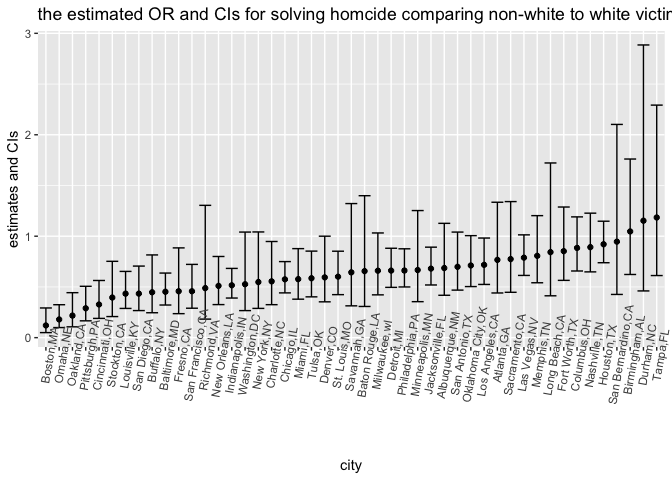
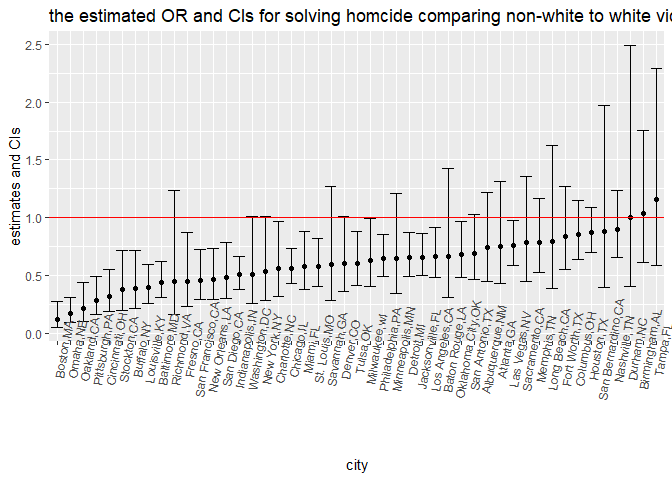
modify the comment of problem1

diff --git a/p8105_hw6.md b/p8105_hw6.md
@@ -9,54 +9,56 @@ Problem 1
 ``` r
 library(tidyverse)
 set.seed(1)
-homcide = read.csv( file = "./data/homicide-data.csv")
+homcide = read_csv( file = "./data/homicide-data.csv")
 ```
-
-Create a city\_state variable (e.g. “Baltimore, MD”), and a binary variable indicating whether the homicide is solved. Omit cities Dallas, TX; Phoenix, AZ; and Kansas City, MO – these don’t report victim race. Also omit Tulsa, AL – this is a data entry mistake. Modifiy victim\_race to have categories white and non-white, with white as the reference category. Be sure that victim\_age is numeric.
 
 ### data cleaning
 
+A code chunk below is used to clean the data: 1)Create a city\_state variable (e.g. “Baltimore, MD”) and a binary variable indicating whether the homicide is solved. 2)Omit cities Dallas, TX; Phoenix, AZ; and Kansas City, MO – these don’t report victim race. omit Tulsa, AL – this is a data entry mistake. 3)Modifiy victim\_race to have categories white and non-white, with white as the reference category. Make sure that victim\_age is numeric.
+
 ``` r
-homcide= homcide%>%
-  janitor::clean_names()%>%
-  mutate(city_state = str_c(city, ",", state))%>%
-  subset(!city_state %in% c("Dallas,TX","Phoenix,AZ","Kansas City,MO","Tulsa,AL"))%>%
-  mutate(victim_race = ifelse(victim_race != "White", "non-white", "white"))%>%
+homcide = homcide %>%
+  janitor::clean_names() %>%
+  mutate(city_state = str_c(city, ",", state)) %>%
+  subset(!city_state %in% c("Dallas,TX","Phoenix,AZ","Kansas City,MO","Tulsa,AL")) %>%
+  mutate(victim_race = ifelse(victim_race != "White", "non-white", "white")) %>%
   mutate(victim_age = as.numeric(victim_age), victim_race = fct_relevel(victim_race, "white"))
 ```
 
-For the city of Baltimore, MD, use the glm function to fit a logistic regression with resolved vs unresolved as the outcome and victim age, sex and race (as just defined) as predictors. Save the output of glm as an R object; apply the broom::tidy to this object; and obtain the estimate and confidence interval of the adjusted odds ratio for solving homicides comparing non-white victims to white victims keeping all other variables fixed.
+### Baltimore Division
 
-### Balimore Division
+For the city of Baltimore, MD, a code chunk is used to utilize the glm function to fit a logistic regression with resolved vs unresolved as the outcome and victim age, sex and race (as just defined) as predictors.
 
 ``` r
-Baltimore = filter(homcide, city_state == "Baltimore,MD")%>%
-mutate(resolved = as.numeric(disposition == "Closed by arrest"))%>%
+Baltimore = filter(homcide, city_state == "Baltimore,MD") %>%
+mutate(resolved = as.numeric(disposition == "Closed by arrest")) %>%
 select(resolved, victim_age, victim_race, victim_sex)
 
 fit_logistic = 
-  Baltimore%>% 
-  glm(resolved ~ victim_age + victim_race + victim_sex, data = ., family = binomial())%>%
-  broom::tidy()%>%
-  mutate(OR = exp(estimate), conf.low = exp(estimate - qnorm(0.975)*std.error), conf.high = exp(estimate + qnorm(0.975)*std.error))%>%
-  filter(term == "victim_racenon-white")%>%
+  Baltimore %>% 
+  glm(resolved ~ victim_age + victim_race + victim_sex, data = ., family = binomial()) %>%
+  broom::tidy(conf.int = TRUE) %>%
+  mutate(OR = exp(estimate), conf.low = exp(conf.low), conf.high = exp(conf.high))     %>%
+  filter(term == "victim_racenon-white") %>%
   select(term,OR, conf.low,conf.high)
 
 knitr::kable(fit_logistic)
 ```
 
-| term                  |         OR|   conf.low|  conf.high|
-|:----------------------|----------:|----------:|----------:|
-| victim\_racenon-white |  0.4525206|  0.3216203|  0.6366977|
+| term                  |        OR|   conf.low|  conf.high|
+|:----------------------|---------:|----------:|----------:|
+| victim\_racenon-white |  0.440608|  0.3121625|  0.6196693|
+
+Thus, keeping all other variables fixed, the estimate of the adjusted odds ratio for solving homicides comparing non-white victims to white victims is 0.440608. And we are 95% confident that the estimate fall into (0.3121625, 0.6196693)
 
 ### glm for all the cities in the dataset
 
-Now run glm for each of the cities in your dataset, and extract the adjusted odds ratio (and CI) for solving homicides comparing non-white victims to white victims. Do this within a “tidy” pipeline, making use of purrr::map, list columns, and unnest as necessary to create a dataframe with estimated ORs and CIs for each city.
+Now, a code chunk is used to run glm for each of the cities in the dataset, and extract the adjusted odds ratio (and CI) for solving homicides comparing non-white victims to white victims.
 
 ``` r
 ##exclude more city with unknown victim-race
-homcide1 = homcide%>%
-  filter(victim_race != "unknown")%>%
+homcide1 = homcide %>%
+  filter(victim_race != "unknown") %>%
   mutate(resolved = as.numeric(disposition == "Closed by arrest"))
 
 nest_lm_res =
@@ -64,80 +66,31 @@ nest_lm_res =
   group_by(city_state) %>% 
   nest() %>% 
   mutate(models = map(data, ~glm(resolved ~ victim_age + victim_race + victim_sex, data = .x, family = binomial())),
-         models = map(models, broom::tidy)) %>% 
+  models = map(models, broom::tidy)) %>% 
   select(-data) %>% 
-  unnest()%>%
-  mutate(OR = exp(estimate), conf.low = exp(estimate - qnorm(0.975)*std.error), conf.high = exp(estimate + qnorm(0.975)*std.error))%>%
-  filter(term == "victim_racenon-white")%>%
+  unnest() %>%
+  mutate(OR = exp(estimate), conf.low = exp(estimate - qnorm(0.975)*std.error), conf.high = exp(estimate + qnorm(0.975)*std.error)) %>%
+  filter(term == "victim_racenon-white") %>%
   select(city_state,term,OR, conf.low,conf.high)
-
-knitr::kable(nest_lm_res)
 ```
 
-| city\_state       | term                  |         OR|   conf.low|  conf.high|
-|:------------------|:----------------------|----------:|----------:|----------:|
-| Albuquerque,NM    | victim\_racenon-white |  0.6860531|  0.4176974|  1.1268177|
-| Atlanta,GA        | victim\_racenon-white |  0.7667500|  0.4404305|  1.3348431|
-| Baltimore,MD      | victim\_racenon-white |  0.4525206|  0.3216203|  0.6366977|
-| Baton Rouge,LA    | victim\_racenon-white |  0.6558545|  0.3074103|  1.3992540|
-| Birmingham,AL     | victim\_racenon-white |  1.0471153|  0.6226928|  1.7608210|
-| Boston,MA         | victim\_racenon-white |  0.1205147|  0.0496325|  0.2926265|
-| Buffalo,NY        | victim\_racenon-white |  0.4474175|  0.2455018|  0.8154008|
-| Charlotte,NC      | victim\_racenon-white |  0.5550724|  0.3250654|  0.9478259|
-| Chicago,IL        | victim\_racenon-white |  0.5751690|  0.4412489|  0.7497341|
-| Cincinnati,OH     | victim\_racenon-white |  0.3269424|  0.1896835|  0.5635248|
-| Columbus,OH       | victim\_racenon-white |  0.8844860|  0.6571179|  1.1905254|
-| Denver,CO         | victim\_racenon-white |  0.5942632|  0.3530866|  1.0001761|
-| Detroit,MI        | victim\_racenon-white |  0.6609813|  0.4958081|  0.8811801|
-| Durham,NC         | victim\_racenon-white |  1.1528002|  0.4605931|  2.8852976|
-| Fort Worth,TX     | victim\_racenon-white |  0.8527376|  0.5646722|  1.2877586|
-| Fresno,CA         | victim\_racenon-white |  0.4574375|  0.2364814|  0.8848439|
-| Houston,TX        | victim\_racenon-white |  0.9207334|  0.7385854|  1.1478022|
-| Indianapolis,IN   | victim\_racenon-white |  0.5162217|  0.3904413|  0.6825223|
-| Jacksonville,FL   | victim\_racenon-white |  0.6805895|  0.5192932|  0.8919855|
-| Las Vegas,NV      | victim\_racenon-white |  0.7883387|  0.6133300|  1.0132848|
-| Long Beach,CA     | victim\_racenon-white |  0.8428440|  0.4125283|  1.7220296|
-| Los Angeles,CA    | victim\_racenon-white |  0.7176698|  0.5245423|  0.9819036|
-| Louisville,KY     | victim\_racenon-white |  0.4336608|  0.2880114|  0.6529661|
-| Memphis,TN        | victim\_racenon-white |  0.8066744|  0.5410241|  1.2027626|
-| Miami,FL          | victim\_racenon-white |  0.5768849|  0.3792390|  0.8775371|
-| Milwaukee,wI      | victim\_racenon-white |  0.6598363|  0.4218686|  1.0320369|
-| Minneapolis,MN    | victim\_racenon-white |  0.6665973|  0.3546810|  1.2528216|
-| Nashville,TN      | victim\_racenon-white |  0.8919720|  0.6483510|  1.2271348|
-| New Orleans,LA    | victim\_racenon-white |  0.5105893|  0.3258202|  0.8001390|
-| New York,NY       | victim\_racenon-white |  0.5481259|  0.2883233|  1.0420316|
-| Oakland,CA        | victim\_racenon-white |  0.2174194|  0.1066222|  0.4433524|
-| Oklahoma City,OK  | victim\_racenon-white |  0.7114617|  0.5034421|  1.0054339|
-| Omaha,NE          | victim\_racenon-white |  0.1795682|  0.0993429|  0.3245803|
-| Philadelphia,PA   | victim\_racenon-white |  0.6615811|  0.4997395|  0.8758354|
-| Pittsburgh,PA     | victim\_racenon-white |  0.2896680|  0.1657623|  0.5061919|
-| Richmond,VA       | victim\_racenon-white |  0.4882646|  0.1827844|  1.3042815|
-| San Antonio,TX    | victim\_racenon-white |  0.6983376|  0.4686104|  1.0406841|
-| Sacramento,CA     | victim\_racenon-white |  0.7743855|  0.4470800|  1.3413099|
-| Savannah,GA       | victim\_racenon-white |  0.6437600|  0.3135579|  1.3216921|
-| San Bernardino,CA | victim\_racenon-white |  0.9462056|  0.4259392|  2.1019550|
-| San Diego,CA      | victim\_racenon-white |  0.4339041|  0.2668576|  0.7055177|
-| San Francisco,CA  | victim\_racenon-white |  0.4577118|  0.2901083|  0.7221444|
-| St. Louis,MO      | victim\_racenon-white |  0.6010156|  0.4239148|  0.8521048|
-| Stockton,CA       | victim\_racenon-white |  0.3954507|  0.2078314|  0.7524428|
-| Tampa,FL          | victim\_racenon-white |  1.1845998|  0.6121675|  2.2923083|
-| Tulsa,OK          | victim\_racenon-white |  0.5857297|  0.4021897|  0.8530285|
-| Washington,DC     | victim\_racenon-white |  0.5268148|  0.2666560|  1.0407935|
-
-Create a plot that shows the estimated ORs and CIs for each city. Organize cities according to estimated OR, and comment on the plot.
+Then, a code chunk is used to create a plot that shows the estimated ORs and CIs for each city. Organize cities according to estimated OR, and comment on the plot.
 
 ``` r
-nest_lm_res%>%
-            mutate(city_state = fct_reorder(city_state, OR))%>%
-            ggplot(aes(x = city_state, y = OR))+
-            geom_point()+
-            geom_errorbar(aes(ymin = conf.low, ymax= conf.high))+
-            theme(axis.text.x =  element_text(angle = 80))+
-            labs(
-              title = "the estimated OR and CIs for solving homcide comparing non-white to white victims across the U.S.",
-              x = "city",
-              y = "estimates and CIs"
-            )
+nest_lm_res %>%
+mutate(city_state = fct_reorder(city_state, OR)) %>%
+ggplot(aes(x = city_state, y = OR)) +
+geom_point() +
+geom_errorbar(aes(ymin = conf.low, ymax = conf.high)) +
+geom_hline(yintercept = 1.0, color = "red") +
+theme(axis.text.x =  element_text(angle = 80)) +
+labs(
+title = "the estimated OR and CIs for solving homcide comparing non-white to white victims across the U.S.",
+x = "city",
+y = "estimates and CIs"
+)
 ```
 
 ![](p8105_hw6_files/figure-markdown_github/unnamed-chunk-5-1.png)
+
+In the graph, I use odds ratio = 1.0 as a cut-off line. We can observe that there are only three cities (Durham, NC; Birmingham, AL; Tampa, FL) which have the estimated odds ratio over 1.0, indicating that the odds of solving non-white victims is larger than the odds of solving white victims. Also, we can observe that Boston has the least odds ratio.
